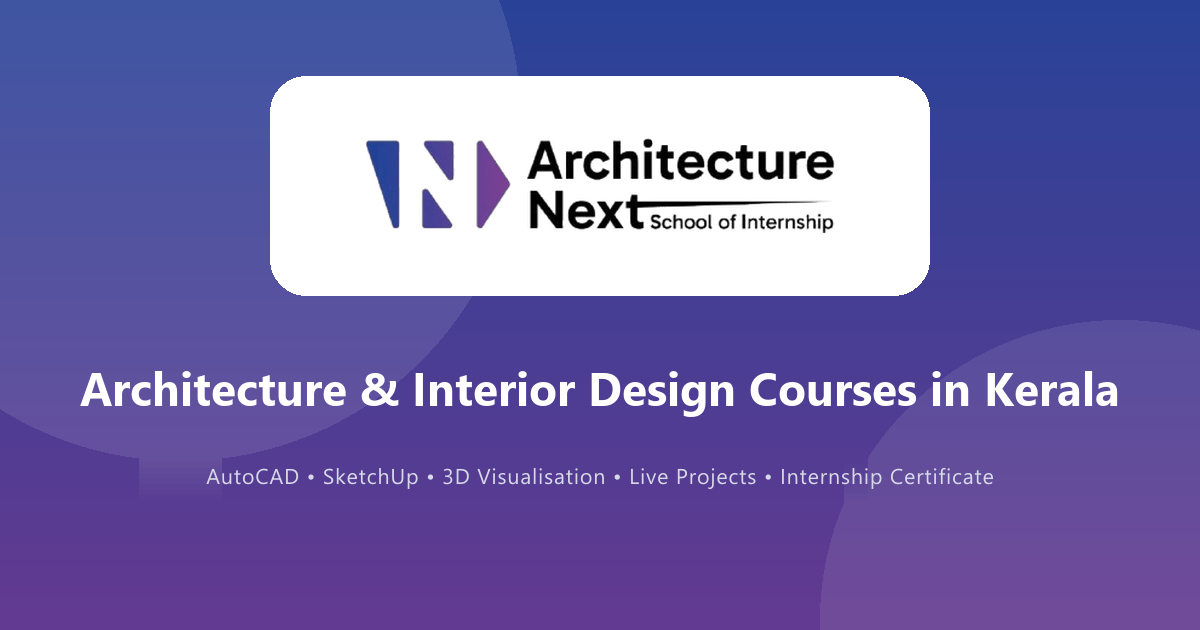
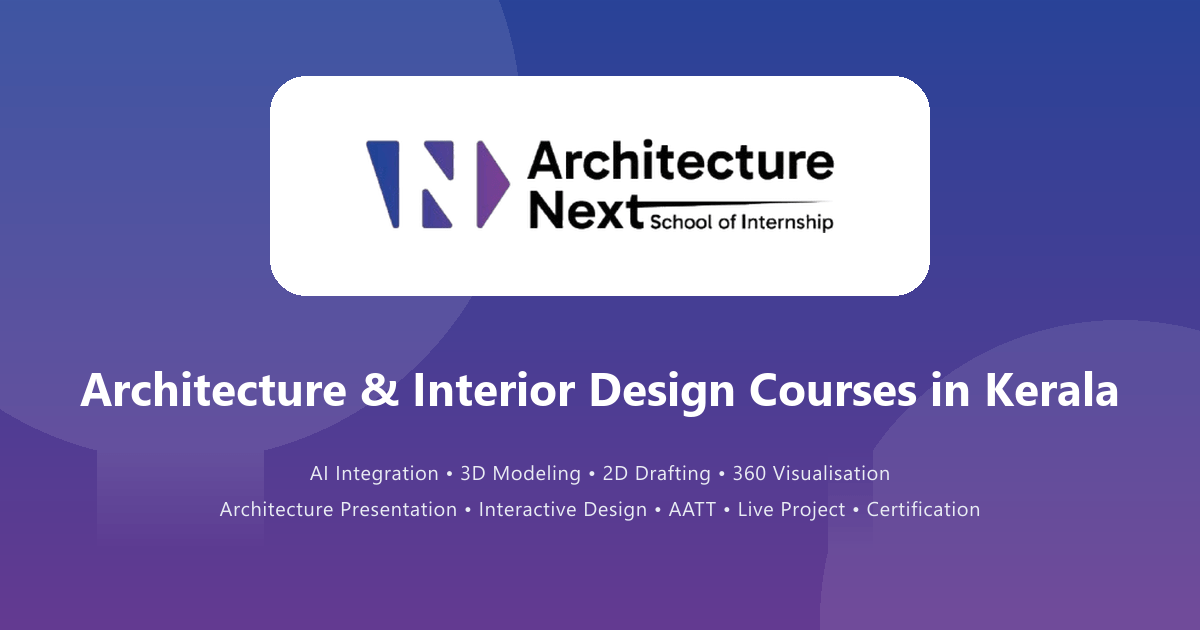
feat: add user-requested competencies list to OG preview image, trust bar, and SEO metadata

Changed region(s): [[0.185, 0.7238, 0.8325, 0.8444]]

diff --git a/src/routes/index.tsx b/src/routes/index.tsx
@@ -263,12 +263,15 @@ function Hero() {
 
 function TrustBar() {
   const items = [
-    { label: "AI Workflow" },
-    { label: "360 Rendering" },
-    { label: "Presentation" },
-    { label: "Animation" },
-    { label: "Portfolio" },
-    { label: "Skill Development" },
+    { label: "AI Integration" },
+    { label: "3D Modeling" },
+    { label: "2D Drafting" },
+    { label: "360 Visualisation" },
+    { label: "Architecture Presentation" },
+    { label: "Interactive Design" },
+    { label: "AATT" },
+    { label: "Live Project" },
+    { label: "Certification" },
   ];
 
   return (
@@ -285,10 +288,10 @@ function TrustBar() {
         ))}
       </div>
 
-      {/* Large Screens (>= md): Original elegant single-line typography with dots */}
-      <div className="mx-auto hidden max-w-7xl items-center justify-center gap-x-6 lg:gap-x-10 px-8 type-small font-semibold uppercase tracking-widest text-muted-foreground sm:text-sm md:flex">
+      {/* Large Screens (>= md): Original elegant typography with dots */}
+      <div className="mx-auto hidden max-w-7xl flex-wrap items-center justify-center gap-x-5 gap-y-2 lg:gap-x-7 px-8 type-small font-semibold uppercase tracking-widest text-muted-foreground sm:text-xs md:flex">
         {items.map((item, index) => (
-          <div key={item.label} className="flex items-center gap-x-6 lg:gap-x-10">
+          <div key={item.label} className="flex items-center gap-x-5 lg:gap-x-7">
             <span className="opacity-75 transition-opacity hover:opacity-100">{item.label}</span>
             {index < items.length - 1 && (
               <span className="h-1.5 w-1.5 rounded-full bg-primary/40" aria-hidden="true" />

diff --git a/src/lib/seo.ts b/src/lib/seo.ts
@@ -12,6 +12,15 @@ export const KEYWORDS = [
   "architecture design course Kerala",
   "interior design training",
   "3D visualisation course",
+  "3D modeling architecture",
+  "2D drafting AutoCAD",
+  "360 visualisation",
+  "architecture presentation",
+  "interactive design",
+  "AATT architecture",
+  "live project architecture",
+  "architecture certification",
+  "AI integration architecture",
   "interior design course Kerala",
   "architecture LMS",
   "SketchUp Lumion course",
@@ -42,7 +51,15 @@ export const organizationJsonLd = {
   knowsAbout: [
     "Architecture",
     "Architectural design",
-    "3D visualisation",
+    "AI integration",
+    "3D modeling",
+    "2D drafting",
+    "360 visualisation",
+    "Architecture presentation",
+    "Interactive design",
+    "AATT",
+    "Live projects",
+    "Certifications",
     "Interior design",
     "AI design workflows",
   ],

diff --git a/src/lib/static-data.ts b/src/lib/static-data.ts
@@ -77,6 +77,18 @@ export const features = [
   },
 ];
 
+export const keyPillars = [
+  "AI Integration",
+  "3D Modeling",
+  "2D Drafting",
+  "360 Visualisation",
+  "Architecture Presentation",
+  "Interactive Design",
+  "AATT",
+  "Live Project",
+  "Certification",
+];
+
 export const pricingFeatures = [
   "Lifetime Access",
   "Internship Certificate",
